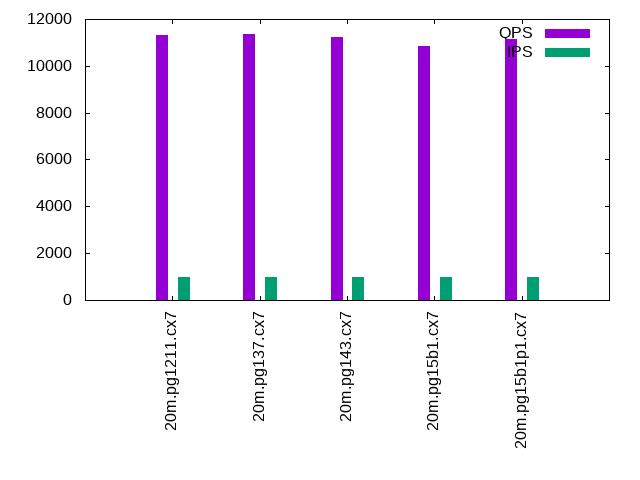
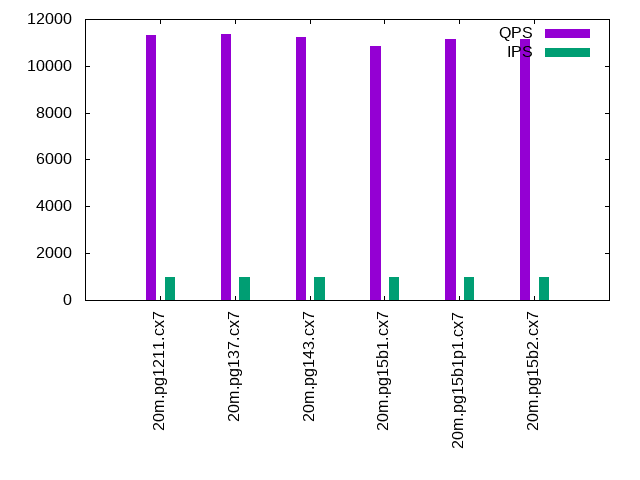
fix typo

diff --git a/reports/22_07_02_ibench.20m.pg.all/all.html b/reports/22_07_02_ibench.20m.pg.all/all.html
@@ -98,7 +98,7 @@ Red backgrounds are not used when the minimum value is within 80&#37 of the max 
 </style>
 <table border="1" cellpadding="8" >
 <tr><th>dbms</th><th>l.i0</th><th>l.x</th><th>l.i1</th><th>q100.1</th><th>q500.1</th><th>q1000.1</th></tr>
-<tr><td>20m.pg1211.cx7</td> <td id="cmax">104167</td><td>304545</td><td id="cmax">38760</td><td id="cgray">11285</td><td id="cgray">11194</td><td id="cgray">11306</td><tr><td>20m.pg137.cx7</td> <td id="cmax">107527</td><td>304545</td><td id="cmax">39216</td><td id="cgray">11411</td><td id="cgray">11371</td><td id="cgray">11379</td><tr><td>20m.pg143.cx7</td> <td>100502</td><td>300000</td><td>37951</td><td id="cgray">11328</td><td id="cgray">11178</td><td id="cgray">11216</td><tr><td>20m.pg15b1.cx7</td> <td>92592</td><td id="cmax">309231</td><td>36832</td><td id="cgray">10955</td><td id="cgray">10970</td><td id="cgray">10839</td><tr><td>20m.pg15b1p1.cx7</td> <td id="cmax">105820</td><td id="cmax">309231</td><td id="cmax">38835</td><td id="cgray">11213</td><td id="cgray">11192</td><td id="cgray">11162</td></table>
+<tr><td>20m.pg1211.cx7</td> <td id="cmax">104167</td><td>304545</td><td id="cmax">38760</td><td id="cgray">11285</td><td id="cgray">11194</td><td id="cgray">11306</td><tr><td>20m.pg137.cx7</td> <td id="cmax">107527</td><td>304545</td><td id="cmax">39216</td><td id="cgray">11411</td><td id="cgray">11371</td><td id="cgray">11379</td><tr><td>20m.pg143.cx7</td> <td>100502</td><td>300000</td><td>37951</td><td id="cgray">11328</td><td id="cgray">11178</td><td id="cgray">11216</td><tr><td>20m.pg15b1.cx7</td> <td>92592</td><td id="cmax">309231</td><td>36832</td><td id="cgray">10955</td><td id="cgray">10970</td><td id="cgray">10839</td><tr><td>20m.pg15b1p1.cx7</td> <td id="cmax">105820</td><td id="cmax">309231</td><td id="cmax">38835</td><td id="cgray">11213</td><td id="cgray">11192</td><td id="cgray">11162</td><tr><td>20m.pg15b2.cx7</td> <td>92166</td><td id="cmax">309231</td><td>36765</td><td id="cgray">11288</td><td id="cgray">11128</td><td id="cgray">11165</td></table>
 <p>
 This lists the average rate of inserts/s for the tests that do inserts concurrent with queries.
 For such tests the query rate is listed in the table above.
@@ -121,7 +121,7 @@ Cells that are not at least 95&#37; of the target have a red background to indic
 <tr><td>pg143.cx7</td><td>100</td><td>500</td><td>999</td></tr>
 <tr><td>pg15b1.cx7</td><td>100</td><td>500</td><td>999</td></tr>
 <tr><td>pg15b1p1.cx7</td><td>100</td><td>500</td><td>999</td></tr>
-<tr><td>pg15b2.cx7</td><td id="cmin"></td><td id="cmin"></td><td id="cmin"></td></tr>
+<tr><td>pg15b2.cx7</td><td>100</td><td>499</td><td>999</td></tr>
 <tr><td>target</td><td id=cgray>100</td><td id=cgray>500</td><td id=cgray>1000</td></tr>
 </table>
 <hr />
@@ -165,6 +165,7 @@ table td#cminr { background-color:#81FFA6 }
 <tr><td id="c0">pg143.cx7</td><td></td><td id="c16">77.983</td><td id="c4">22.017</td><td id="c0">0.001</td><td></td><td></td><td></td><td></td><td></td><td></td><td id="cmaxr">0.004</td></tr>
 <tr><td id="c0">pg15b1.cx7</td><td></td><td id="c0">0.785</td><td id="c20">99.215</td><td></td><td></td><td></td><td></td><td></td><td></td><td></td><td id="cminr">0.003</td></tr>
 <tr><td id="c0">pg15b1p1.cx7</td><td></td><td id="c20">98.209</td><td id="c0">1.791</td><td id="c0">0.001</td><td></td><td></td><td></td><td></td><td></td><td></td><td id="cmaxr">0.005</td></tr>
+<tr><td id="c0">pg15b2.cx7</td><td></td><td id="c0">0.301</td><td id="c20">99.698</td><td id="c0">0.001</td><td></td><td></td><td></td><td></td><td></td><td></td><td id="cmaxr">0.004</td></tr>
 </table>
 <p>
 Performance metrics for the DBMS listed above. Some are normalized by throughput, others are not. Legend for results <a href="https://mdcallag.github.io/ibench-results.html">is here</a>.
@@ -176,6 +177,7 @@ ips	qps	rps	rmbps	wps	wmbps	rpq	rkbpq	wpi	wkbpi	csps	cpups	cspq	cpupq	dbgb1	dbgb
 100502	0	0	0.0	66.1	43.3	0.000	0.000	0.001	0.441	12161	45.0	0.121	18	1.9	5.2	0.0	0.004	100691	79113	20m.pg143.cx7
 92592	0	0	0.0	60.7	39.5	0.000	0.000	0.001	0.437	11089	42.6	0.120	18	1.9	5.2	0.0	0.003	92799	73220	20m.pg15b1.cx7
 105820	0	0	0.0	67.6	44.2	0.000	0.000	0.001	0.428	12785	44.6	0.121	17	1.9	5.2	0.0	0.005	106184	84510	20m.pg15b1p1.cx7
+92166	0	0	0.0	60.1	39.3	0.000	0.000	0.001	0.437	11057	42.1	0.120	18	1.9	5.2	0.0	0.004	92400	73919	20m.pg15b2.cx7
 </pre>
 <hr />
 <h1 id="l.x.graph">l.x</h1>
@@ -193,6 +195,7 @@ ips	qps	rps	rmbps	wps	wmbps	rpq	rkbpq	wpi	wkbpi	csps	cpups	cspq	cpupq	dbgb1	dbgb
 300000	0	0	0.0	58.9	62.3	0.000	0.000	0.000	0.212	1907	24.8	0.006	3	3.7	8.6	0.0	0.002	NA	NA	20m.pg143.cx7
 309231	0	0	0.0	69.6	73.4	0.000	0.000	0.000	0.243	2014	24.8	0.007	3	3.7	8.6	0.0	0.002	NA	NA	20m.pg15b1.cx7
 309231	0	0	0.0	75.2	78.7	0.000	0.000	0.000	0.261	2038	24.6	0.007	3	3.7	8.6	0.0	0.002	NA	NA	20m.pg15b1p1.cx7
+309231	0	0	0.0	74.1	79.4	0.000	0.000	0.000	0.263	2060	24.4	0.007	3	3.7	8.6	0.0	0.002	NA	NA	20m.pg15b2.cx7
 </pre>
 <hr />
 <h1 id="l.i1.graph">l.i1</h1>
@@ -235,6 +238,7 @@ table td#cminr { background-color:#81FFA6 }
 <tr><td id="c0">pg143.cx7</td><td></td><td></td><td id="c20">99.869</td><td id="c0">0.110</td><td id="c0">0.020</td><td id="c0">0.001</td><td>nonzero</td><td></td><td></td><td></td><td id="cminr">0.269</td></tr>
 <tr><td id="c0">pg15b1.cx7</td><td></td><td></td><td id="c20">99.883</td><td id="c0">0.094</td><td id="c0">0.022</td><td>nonzero</td><td>nonzero</td><td></td><td></td><td></td><td id="cminr">0.259</td></tr>
 <tr><td id="c0">pg15b1p1.cx7</td><td></td><td></td><td id="c20">99.886</td><td id="c0">0.090</td><td id="c0">0.023</td><td id="c0">0.001</td><td>nonzero</td><td></td><td></td><td></td><td>0.423</td></tr>
+<tr><td id="c0">pg15b2.cx7</td><td></td><td></td><td id="c20">99.892</td><td id="c0">0.088</td><td id="c0">0.019</td><td id="c0">0.001</td><td>nonzero</td><td></td><td></td><td></td><td>0.394</td></tr>
 </table>
 <p>
 Performance metrics for the DBMS listed above. Some are normalized by throughput, others are not. Legend for results <a href="https://mdcallag.github.io/ibench-results.html">is here</a>.
@@ -246,6 +250,7 @@ ips	qps	rps	rmbps	wps	wmbps	rpq	rkbpq	wpi	wkbpi	csps	cpups	cspq	cpupq	dbgb1	dbgb
 37951	0	0	0.0	154.8	64.0	0.000	0.000	0.004	1.726	9554	36.1	0.252	38	8.2	20.8	0.0	0.269	39420	16082	20m.pg143.cx7
 36832	0	0	0.0	169.7	63.7	0.000	0.000	0.005	1.771	9326	36.1	0.253	39	8.2	21.2	0.0	0.259	38058	16130	20m.pg15b1.cx7
 38835	0	0	0.0	150.2	63.3	0.000	0.000	0.004	1.668	9812	36.5	0.253	38	8.2	20.4	0.0	0.423	40257	11138	20m.pg15b1p1.cx7
+36765	0	0	0.0	172.0	63.9	0.000	0.000	0.005	1.779	9352	35.9	0.254	39	8.2	21.2	0.0	0.394	38108	14984	20m.pg15b2.cx7
 </pre>
 <hr />
 <h1 id="q100.1.graph">q100.1</h1>
@@ -286,6 +291,7 @@ table td#cminr { background-color:#81FFA6 }
 <tr><td id="c0">pg143.cx7</td><td id="c20">99.996</td><td id="c0">0.003</td><td id="c0">0.001</td><td>nonzero</td><td></td><td></td><td></td><td></td><td></td><td></td><td id="cmaxr">0.007</td></tr>
 <tr><td id="c0">pg15b1.cx7</td><td id="c20">99.997</td><td id="c0">0.002</td><td id="c0">0.001</td><td>nonzero</td><td></td><td></td><td></td><td></td><td></td><td></td><td id="cminr">0.004</td></tr>
 <tr><td id="c0">pg15b1p1.cx7</td><td id="c20">99.997</td><td id="c0">0.002</td><td id="c0">0.001</td><td>nonzero</td><td></td><td></td><td></td><td></td><td></td><td></td><td id="cminr">0.004</td></tr>
+<tr><td id="c0">pg15b2.cx7</td><td id="c20">99.996</td><td id="c0">0.003</td><td id="c0">0.001</td><td>nonzero</td><td></td><td></td><td></td><td></td><td></td><td></td><td id="cminr">0.005</td></tr>
 </table>
 <p>Insert response time histogram: each cell has the percentage of responses that take <= the time in the header and <b>max</b> is the max response time in seconds. For <b>max</b> values in the top 25&#37; of the range have a red background and in the bottom 25&#37; of the range have a green background. The red background is not used when the min value is within 80&#37 of the max value.</p><style type="text/css">
 table td#c0 { background-color:#fefefe }
@@ -321,6 +327,7 @@ table td#cminr { background-color:#81FFA6 }
 <tr><td id="c0">pg143.cx7</td><td></td><td></td><td id="c20">99.979</td><td id="c0">0.021</td><td></td><td></td><td></td><td></td><td></td><td></td><td>0.005</td></tr>
 <tr><td id="c0">pg15b1.cx7</td><td></td><td></td><td id="c20">99.958</td><td id="c0">0.042</td><td></td><td></td><td></td><td></td><td></td><td></td><td id="cmaxr">0.006</td></tr>
 <tr><td id="c0">pg15b1p1.cx7</td><td></td><td></td><td id="c20">99.979</td><td id="c0">0.021</td><td></td><td></td><td></td><td></td><td></td><td></td><td>0.005</td></tr>
+<tr><td id="c0">pg15b2.cx7</td><td></td><td></td><td id="c20">99.979</td><td id="c0">0.021</td><td></td><td></td><td></td><td></td><td></td><td></td><td>0.005</td></tr>
 </table>
 <p>
 Performance metrics for the DBMS listed above. Some are normalized by throughput, others are not. Legend for results <a href="https://mdcallag.github.io/ibench-results.html">is here</a>.
@@ -332,6 +339,7 @@ ips	qps	rps	rmbps	wps	wmbps	rpq	rkbpq	wpi	wkbpi	csps	cpups	cspq	cpupq	dbgb1	dbgb
 100	11328	0	0.0	196.7	4.4	0.000	0.000	1.969	44.644	43479	26.7	3.838	94	8.3	10.8	0.0	0.007	11331	11204	20m.pg143.cx7
 100	10955	0	0.0	195.5	4.3	0.000	0.000	1.956	44.560	42026	26.5	3.836	97	8.3	10.8	0.0	0.004	10952	10840	20m.pg15b1.cx7
 100	11213	0	0.0	198.8	4.4	0.000	0.000	1.990	44.617	43010	26.6	3.836	95	8.3	10.8	0.0	0.004	11220	11092	20m.pg15b1p1.cx7
+100	11288	0	0.0	195.5	4.3	0.000	0.000	1.959	44.602	43307	26.6	3.836	94	8.3	10.8	0.0	0.005	11299	11172	20m.pg15b2.cx7
 </pre>
 <hr />
 <h1 id="q500.1.graph">q500.1</h1>
@@ -372,6 +380,7 @@ table td#cminr { background-color:#81FFA6 }
 <tr><td id="c0">pg143.cx7</td><td id="c20">99.979</td><td id="c0">0.015</td><td id="c0">0.006</td><td>nonzero</td><td></td><td></td><td></td><td></td><td></td><td></td><td>0.005</td></tr>
 <tr><td id="c0">pg15b1.cx7</td><td id="c20">99.980</td><td id="c0">0.014</td><td id="c0">0.006</td><td>nonzero</td><td></td><td></td><td></td><td></td><td></td><td></td><td>0.005</td></tr>
 <tr><td id="c0">pg15b1p1.cx7</td><td id="c20">99.981</td><td id="c0">0.014</td><td id="c0">0.005</td><td>nonzero</td><td></td><td></td><td></td><td></td><td></td><td></td><td>0.005</td></tr>
+<tr><td id="c0">pg15b2.cx7</td><td id="c20">99.980</td><td id="c0">0.014</td><td id="c0">0.006</td><td>nonzero</td><td></td><td></td><td></td><td></td><td></td><td></td><td>0.005</td></tr>
 </table>
 <p>Insert response time histogram: each cell has the percentage of responses that take <= the time in the header and <b>max</b> is the max response time in seconds. For <b>max</b> values in the top 25&#37; of the range have a red background and in the bottom 25&#37; of the range have a green background. The red background is not used when the min value is within 80&#37 of the max value.</p><style type="text/css">
 table td#c0 { background-color:#fefefe }
@@ -407,6 +416,7 @@ table td#cminr { background-color:#81FFA6 }
 <tr><td id="c0">pg143.cx7</td><td></td><td></td><td id="c20">99.994</td><td id="c0">0.006</td><td></td><td></td><td></td><td></td><td></td><td></td><td id="cminr">0.006</td></tr>
 <tr><td id="c0">pg15b1.cx7</td><td></td><td></td><td id="c20">99.979</td><td id="c0">0.021</td><td></td><td></td><td></td><td></td><td></td><td></td><td>0.010</td></tr>
 <tr><td id="c0">pg15b1p1.cx7</td><td></td><td></td><td id="c20">99.983</td><td id="c0">0.017</td><td></td><td></td><td></td><td></td><td></td><td></td><td id="cminr">0.009</td></tr>
+<tr><td id="c0">pg15b2.cx7</td><td></td><td></td><td id="c20">99.971</td><td id="c0">0.028</td><td id="c0">0.001</td><td></td><td></td><td></td><td></td><td></td><td id="cmaxr">0.019</td></tr>
 </table>
 <p>
 Performance metrics for the DBMS listed above. Some are normalized by throughput, others are not. Legend for results <a href="https://mdcallag.github.io/ibench-results.html">is here</a>.
@@ -418,6 +428,7 @@ ips	qps	rps	rmbps	wps	wmbps	rpq	rkbpq	wpi	wkbpi	csps	cpups	cspq	cpupq	dbgb1	dbgb
 500	11178	0	0.0	376.7	12.4	0.000	0.000	0.754	25.402	43026	27.2	3.849	97	9.7	13.3	0.0	0.005	11176	11060	20m.pg143.cx7
 500	10970	0	0.0	375.6	12.3	0.000	0.000	0.752	25.311	42203	27.0	3.847	98	9.7	13.3	0.0	0.005	10968	10844	20m.pg15b1.cx7
 500	11192	0	0.0	375.7	12.4	0.000	0.000	0.752	25.387	43045	27.0	3.846	96	9.7	13.3	0.0	0.005	11189	11060	20m.pg15b1p1.cx7
+499	11128	0	0.0	375.8	12.3	0.000	0.000	0.752	25.320	42814	27.0	3.847	97	9.7	13.3	0.0	0.005	11127	10996	20m.pg15b2.cx7
 </pre>
 <hr />
 <h1 id="q1000.1.graph">q1000.1</h1>
@@ -458,6 +469,7 @@ table td#cminr { background-color:#81FFA6 }
 <tr><td id="c0">pg143.cx7</td><td id="c20">99.952</td><td id="c0">0.038</td><td id="c0">0.010</td><td>nonzero</td><td></td><td></td><td></td><td></td><td></td><td></td><td id="cminr">0.006</td></tr>
 <tr><td id="c0">pg15b1.cx7</td><td id="c20">99.952</td><td id="c0">0.038</td><td id="c0">0.010</td><td>nonzero</td><td></td><td></td><td></td><td></td><td></td><td></td><td id="cmaxr">0.009</td></tr>
 <tr><td id="c0">pg15b1p1.cx7</td><td id="c20">99.954</td><td id="c0">0.036</td><td id="c0">0.010</td><td>nonzero</td><td></td><td></td><td></td><td></td><td></td><td></td><td id="cminr">0.006</td></tr>
+<tr><td id="c0">pg15b2.cx7</td><td id="c20">99.953</td><td id="c0">0.037</td><td id="c0">0.010</td><td>nonzero</td><td></td><td></td><td></td><td></td><td></td><td></td><td id="cminr">0.006</td></tr>
 </table>
 <p>Insert response time histogram: each cell has the percentage of responses that take <= the time in the header and <b>max</b> is the max response time in seconds. For <b>max</b> values in the top 25&#37; of the range have a red background and in the bottom 25&#37; of the range have a green background. The red background is not used when the min value is within 80&#37 of the max value.</p><style type="text/css">
 table td#c0 { background-color:#fefefe }
@@ -493,6 +505,7 @@ table td#cminr { background-color:#81FFA6 }
 <tr><td id="c0">pg143.cx7</td><td></td><td></td><td id="c20">98.364</td><td id="c0">1.622</td><td id="c0">0.015</td><td></td><td></td><td></td><td></td><td></td><td>0.035</td></tr>
 <tr><td id="c0">pg15b1.cx7</td><td></td><td></td><td id="c20">98.267</td><td id="c0">1.718</td><td id="c0">0.015</td><td></td><td></td><td></td><td></td><td></td><td id="cmaxr">0.036</td></tr>
 <tr><td id="c0">pg15b1p1.cx7</td><td></td><td></td><td id="c20">98.367</td><td id="c0">1.624</td><td id="c0">0.009</td><td></td><td></td><td></td><td></td><td></td><td>0.035</td></tr>
+<tr><td id="c0">pg15b2.cx7</td><td></td><td></td><td id="c20">98.316</td><td id="c0">1.670</td><td id="c0">0.014</td><td></td><td></td><td></td><td></td><td></td><td>0.035</td></tr>
 </table>
 <p>
 Performance metrics for the DBMS listed above. Some are normalized by throughput, others are not. Legend for results <a href="https://mdcallag.github.io/ibench-results.html">is here</a>.
@@ -504,6 +517,7 @@ ips	qps	rps	rmbps	wps	wmbps	rpq	rkbpq	wpi	wkbpi	csps	cpups	cspq	cpupq	dbgb1	dbgb
 999	11216	6	0.1	512.3	17.5	0.001	0.005	0.513	17.933	43293	27.6	3.860	98	12.0	16.7	0.0	0.006	11220	11060	20m.pg143.cx7
 999	10839	8	0.1	510.6	17.5	0.001	0.006	0.511	17.902	41835	27.6	3.860	102	12.0	16.7	0.0	0.009	10837	10708	20m.pg15b1.cx7
 999	11162	6	0.1	512.0	17.5	0.001	0.005	0.512	17.936	43056	27.5	3.857	99	12.0	16.7	0.0	0.006	11164	11016	20m.pg15b1p1.cx7
+999	11165	8	0.1	511.1	17.5	0.001	0.006	0.512	17.906	43082	27.6	3.859	99	12.0	16.7	0.0	0.006	11172	11012	20m.pg15b2.cx7
 </pre>
 <hr />
 <h1 id="l.i0.metrics">l.i0</h1>
@@ -518,6 +532,7 @@ ips	qps	rps	rmbps	wps	wmbps	rpq	rkbpq	wpi	wkbpi	csps	cpups	cspq	cpupq	dbgb1	dbgb
 100502	0	0	0.0	66.1	43.3	0.000	0.000	0.001	0.441	12161	45.0	0.121	18	1.9	5.2	0.0	0.004	100691	79113	20m.pg143.cx7
 92592	0	0	0.0	60.7	39.5	0.000	0.000	0.001	0.437	11089	42.6	0.120	18	1.9	5.2	0.0	0.003	92799	73220	20m.pg15b1.cx7
 105820	0	0	0.0	67.6	44.2	0.000	0.000	0.001	0.428	12785	44.6	0.121	17	1.9	5.2	0.0	0.005	106184	84510	20m.pg15b1p1.cx7
+92166	0	0	0.0	60.1	39.3	0.000	0.000	0.001	0.437	11057	42.1	0.120	18	1.9	5.2	0.0	0.004	92400	73919	20m.pg15b2.cx7
 </pre>
 <hr />
 <h1 id="l.x.metrics">l.x</h1>
@@ -532,6 +547,7 @@ ips	qps	rps	rmbps	wps	wmbps	rpq	rkbpq	wpi	wkbpi	csps	cpups	cspq	cpupq	dbgb1	dbgb
 300000	0	0	0.0	58.9	62.3	0.000	0.000	0.000	0.212	1907	24.8	0.006	3	3.7	8.6	0.0	0.002	NA	NA	20m.pg143.cx7
 309231	0	0	0.0	69.6	73.4	0.000	0.000	0.000	0.243	2014	24.8	0.007	3	3.7	8.6	0.0	0.002	NA	NA	20m.pg15b1.cx7
 309231	0	0	0.0	75.2	78.7	0.000	0.000	0.000	0.261	2038	24.6	0.007	3	3.7	8.6	0.0	0.002	NA	NA	20m.pg15b1p1.cx7
+309231	0	0	0.0	74.1	79.4	0.000	0.000	0.000	0.263	2060	24.4	0.007	3	3.7	8.6	0.0	0.002	NA	NA	20m.pg15b2.cx7
 </pre>
 <hr />
 <h1 id="l.i1.metrics">l.i1</h1>
@@ -546,6 +562,7 @@ ips	qps	rps	rmbps	wps	wmbps	rpq	rkbpq	wpi	wkbpi	csps	cpups	cspq	cpupq	dbgb1	dbgb
 37951	0	0	0.0	154.8	64.0	0.000	0.000	0.004	1.726	9554	36.1	0.252	38	8.2	20.8	0.0	0.269	39420	16082	20m.pg143.cx7
 36832	0	0	0.0	169.7	63.7	0.000	0.000	0.005	1.771	9326	36.1	0.253	39	8.2	21.2	0.0	0.259	38058	16130	20m.pg15b1.cx7
 38835	0	0	0.0	150.2	63.3	0.000	0.000	0.004	1.668	9812	36.5	0.253	38	8.2	20.4	0.0	0.423	40257	11138	20m.pg15b1p1.cx7
+36765	0	0	0.0	172.0	63.9	0.000	0.000	0.005	1.779	9352	35.9	0.254	39	8.2	21.2	0.0	0.394	38108	14984	20m.pg15b2.cx7
 </pre>
 <hr />
 <h1 id="q100.1.metrics">q100.1</h1>
@@ -560,6 +577,7 @@ ips	qps	rps	rmbps	wps	wmbps	rpq	rkbpq	wpi	wkbpi	csps	cpups	cspq	cpupq	dbgb1	dbgb
 100	11328	0	0.0	196.7	4.4	0.000	0.000	1.969	44.644	43479	26.7	3.838	94	8.3	10.8	0.0	0.007	11331	11204	20m.pg143.cx7
 100	10955	0	0.0	195.5	4.3	0.000	0.000	1.956	44.560	42026	26.5	3.836	97	8.3	10.8	0.0	0.004	10952	10840	20m.pg15b1.cx7
 100	11213	0	0.0	198.8	4.4	0.000	0.000	1.990	44.617	43010	26.6	3.836	95	8.3	10.8	0.0	0.004	11220	11092	20m.pg15b1p1.cx7
+100	11288	0	0.0	195.5	4.3	0.000	0.000	1.959	44.602	43307	26.6	3.836	94	8.3	10.8	0.0	0.005	11299	11172	20m.pg15b2.cx7
 </pre>
 <hr />
 <h1 id="q500.1.metrics">q500.1</h1>
@@ -574,6 +592,7 @@ ips	qps	rps	rmbps	wps	wmbps	rpq	rkbpq	wpi	wkbpi	csps	cpups	cspq	cpupq	dbgb1	dbgb
 500	11178	0	0.0	376.7	12.4	0.000	0.000	0.754	25.402	43026	27.2	3.849	97	9.7	13.3	0.0	0.005	11176	11060	20m.pg143.cx7
 500	10970	0	0.0	375.6	12.3	0.000	0.000	0.752	25.311	42203	27.0	3.847	98	9.7	13.3	0.0	0.005	10968	10844	20m.pg15b1.cx7
 500	11192	0	0.0	375.7	12.4	0.000	0.000	0.752	25.387	43045	27.0	3.846	96	9.7	13.3	0.0	0.005	11189	11060	20m.pg15b1p1.cx7
+499	11128	0	0.0	375.8	12.3	0.000	0.000	0.752	25.320	42814	27.0	3.847	97	9.7	13.3	0.0	0.005	11127	10996	20m.pg15b2.cx7
 </pre>
 <hr />
 <h1 id="q1000.1.metrics">q1000.1</h1>
@@ -588,6 +607,7 @@ ips	qps	rps	rmbps	wps	wmbps	rpq	rkbpq	wpi	wkbpi	csps	cpups	cspq	cpupq	dbgb1	dbgb
 999	11216	6	0.1	512.3	17.5	0.001	0.005	0.513	17.933	43293	27.6	3.860	98	12.0	16.7	0.0	0.006	11220	11060	20m.pg143.cx7
 999	10839	8	0.1	510.6	17.5	0.001	0.006	0.511	17.902	41835	27.6	3.860	102	12.0	16.7	0.0	0.009	10837	10708	20m.pg15b1.cx7
 999	11162	6	0.1	512.0	17.5	0.001	0.005	0.512	17.936	43056	27.5	3.857	99	12.0	16.7	0.0	0.006	11164	11016	20m.pg15b1p1.cx7
+999	11165	8	0.1	511.1	17.5	0.001	0.006	0.512	17.906	43082	27.6	3.859	99	12.0	16.7	0.0	0.006	11172	11012	20m.pg15b2.cx7
 </pre>
 <hr />
 <h1 id="l.i0.rt">l.i0</h1>
@@ -606,6 +626,7 @@ ips	qps	rps	rmbps	wps	wmbps	rpq	rkbpq	wpi	wkbpi	csps	cpups	cspq	cpupq	dbgb1	dbgb
 0.000	77.983	22.017	0.001	0.000	0.000	0.000	0.000	0.000	0.000	0.004	pg143.cx7
 0.000	0.785	99.215	0.000	0.000	0.000	0.000	0.000	0.000	0.000	0.003	pg15b1.cx7
 0.000	98.209	1.791	0.001	0.000	0.000	0.000	0.000	0.000	0.000	0.005	pg15b1p1.cx7
+0.000	0.301	99.698	0.001	0.000	0.000	0.000	0.000	0.000	0.000	0.004	pg15b2.cx7
 </pre>
 <hr />
 <h1 id="l.x.rt">l.x</h1>
@@ -634,6 +655,7 @@ ips	qps	rps	rmbps	wps	wmbps	rpq	rkbpq	wpi	wkbpi	csps	cpups	cspq	cpupq	dbgb1	dbgb
 0.000	0.000	99.869	0.110	0.020	0.001	nonzero	0.000	0.000	0.000	0.269	pg143.cx7
 0.000	0.000	99.883	0.094	0.022	nonzero	nonzero	0.000	0.000	0.000	0.259	pg15b1.cx7
 0.000	0.000	99.886	0.090	0.023	0.001	nonzero	0.000	0.000	0.000	0.423	pg15b1p1.cx7
+0.000	0.000	99.892	0.088	0.019	0.001	nonzero	0.000	0.000	0.000	0.394	pg15b2.cx7
 </pre>
 <hr />
 <h1 id="q100.1.rt">q100.1</h1>
@@ -652,6 +674,7 @@ ips	qps	rps	rmbps	wps	wmbps	rpq	rkbpq	wpi	wkbpi	csps	cpups	cspq	cpupq	dbgb1	dbgb
 99.996	0.003	0.001	nonzero	0.000	0.000	0.000	0.000	0.000	0.000	0.007	pg143.cx7
 99.997	0.002	0.001	nonzero	0.000	0.000	0.000	0.000	0.000	0.000	0.004	pg15b1.cx7
 99.997	0.002	0.001	nonzero	0.000	0.000	0.000	0.000	0.000	0.000	0.004	pg15b1p1.cx7
+99.996	0.003	0.001	nonzero	0.000	0.000	0.000	0.000	0.000	0.000	0.005	pg15b2.cx7
 </pre>
 <p>Insert response time histogram</p>
 <pre>
@@ -661,6 +684,7 @@ ips	qps	rps	rmbps	wps	wmbps	rpq	rkbpq	wpi	wkbpi	csps	cpups	cspq	cpupq	dbgb1	dbgb
 0.000	0.000	99.979	0.021	0.000	0.000	0.000	0.000	0.000	0.000	0.005	pg143.cx7
 0.000	0.000	99.958	0.042	0.000	0.000	0.000	0.000	0.000	0.000	0.006	pg15b1.cx7
 0.000	0.000	99.979	0.021	0.000	0.000	0.000	0.000	0.000	0.000	0.005	pg15b1p1.cx7
+0.000	0.000	99.979	0.021	0.000	0.000	0.000	0.000	0.000	0.000	0.005	pg15b2.cx7
 </pre>
 <hr />
 <h1 id="q500.1.rt">q500.1</h1>
@@ -679,6 +703,7 @@ ips	qps	rps	rmbps	wps	wmbps	rpq	rkbpq	wpi	wkbpi	csps	cpups	cspq	cpupq	dbgb1	dbgb
 99.979	0.015	0.006	nonzero	0.000	0.000	0.000	0.000	0.000	0.000	0.005	pg143.cx7
 99.980	0.014	0.006	nonzero	0.000	0.000	0.000	0.000	0.000	0.000	0.005	pg15b1.cx7
 99.981	0.014	0.005	nonzero	0.000	0.000	0.000	0.000	0.000	0.000	0.005	pg15b1p1.cx7
+99.980	0.014	0.006	nonzero	0.000	0.000	0.000	0.000	0.000	0.000	0.005	pg15b2.cx7
 </pre>
 <p>Insert response time histogram</p>
 <pre>
@@ -688,6 +713,7 @@ ips	qps	rps	rmbps	wps	wmbps	rpq	rkbpq	wpi	wkbpi	csps	cpups	cspq	cpupq	dbgb1	dbgb
 0.000	0.000	99.994	0.006	0.000	0.000	0.000	0.000	0.000	0.000	0.006	pg143.cx7
 0.000	0.000	99.979	0.021	0.000	0.000	0.000	0.000	0.000	0.000	0.010	pg15b1.cx7
 0.000	0.000	99.983	0.017	0.000	0.000	0.000	0.000	0.000	0.000	0.009	pg15b1p1.cx7
+0.000	0.000	99.971	0.028	0.001	0.000	0.000	0.000	0.000	0.000	0.019	pg15b2.cx7
 </pre>
 <hr />
 <h1 id="q1000.1.rt">q1000.1</h1>
@@ -706,6 +732,7 @@ ips	qps	rps	rmbps	wps	wmbps	rpq	rkbpq	wpi	wkbpi	csps	cpups	cspq	cpupq	dbgb1	dbgb
 99.952	0.038	0.010	nonzero	0.000	0.000	0.000	0.000	0.000	0.000	0.006	pg143.cx7
 99.952	0.038	0.010	nonzero	0.000	0.000	0.000	0.000	0.000	0.000	0.009	pg15b1.cx7
 99.954	0.036	0.010	nonzero	0.000	0.000	0.000	0.000	0.000	0.000	0.006	pg15b1p1.cx7
+99.953	0.037	0.010	nonzero	0.000	0.000	0.000	0.000	0.000	0.000	0.006	pg15b2.cx7
 </pre>
 <p>Insert response time histogram</p>
 <pre>
@@ -715,6 +742,7 @@ ips	qps	rps	rmbps	wps	wmbps	rpq	rkbpq	wpi	wkbpi	csps	cpups	cspq	cpupq	dbgb1	dbgb
 0.000	0.000	98.364	1.622	0.015	0.000	0.000	0.000	0.000	0.000	0.035	pg143.cx7
 0.000	0.000	98.267	1.718	0.015	0.000	0.000	0.000	0.000	0.000	0.036	pg15b1.cx7
 0.000	0.000	98.367	1.624	0.009	0.000	0.000	0.000	0.000	0.000	0.035	pg15b1p1.cx7
+0.000	0.000	98.316	1.670	0.014	0.000	0.000	0.000	0.000	0.000	0.035	pg15b2.cx7
 </pre>
 </body>
 </html>
